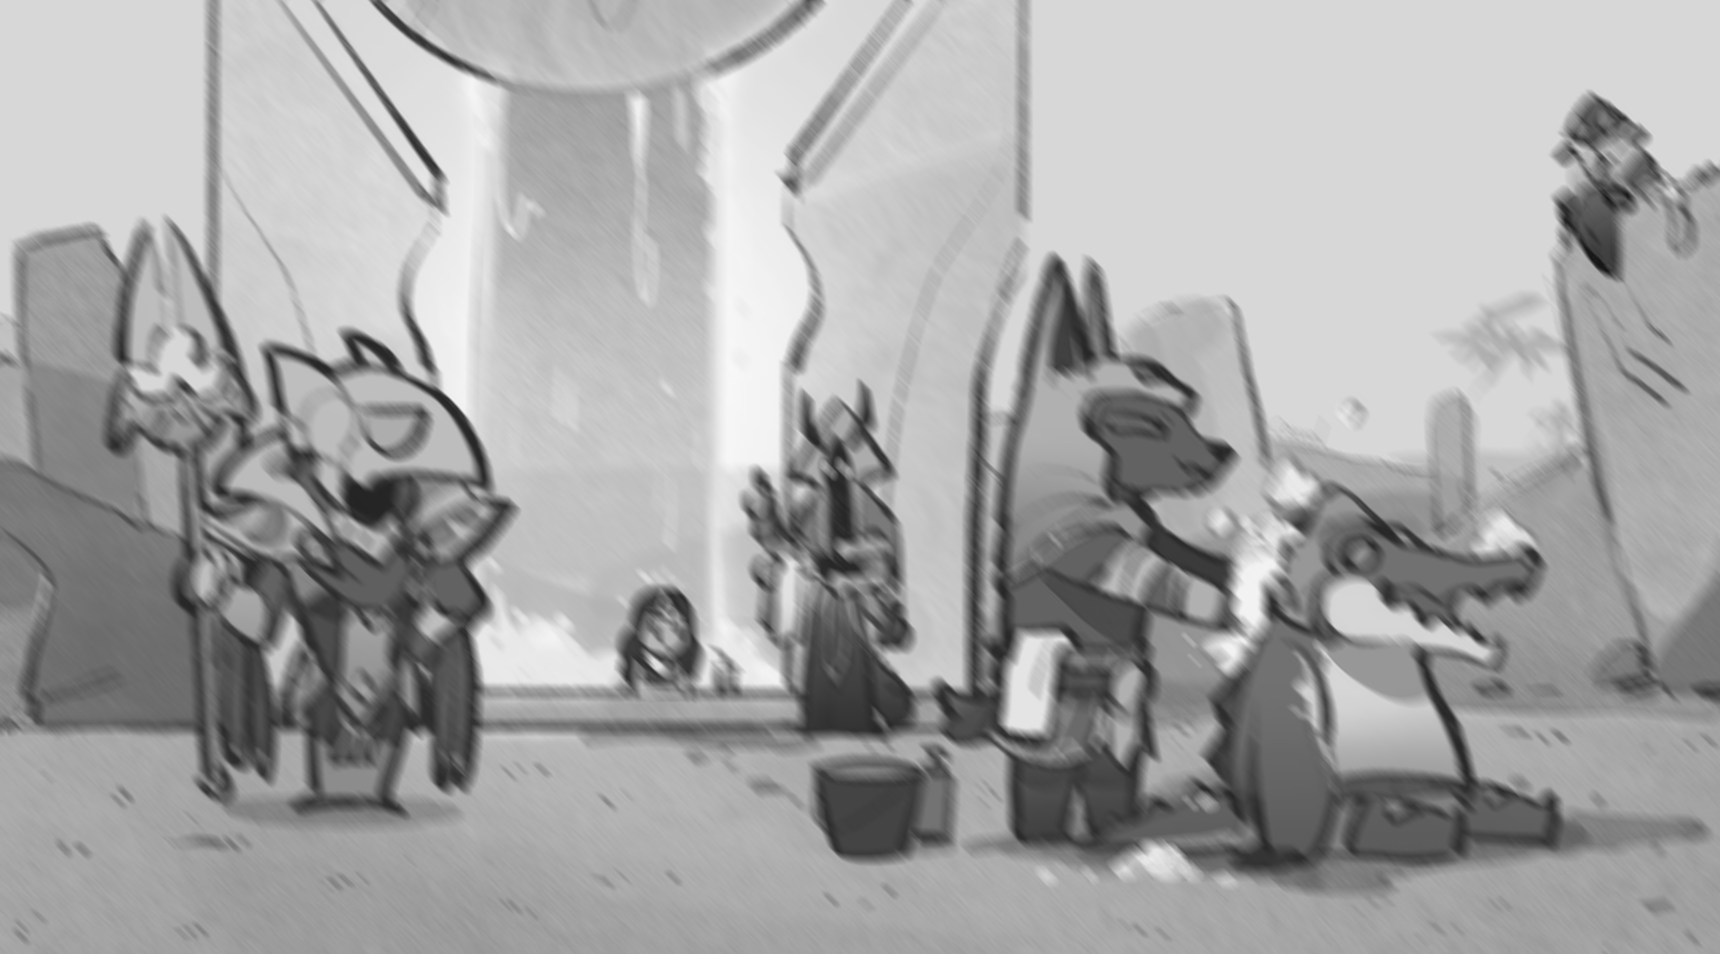
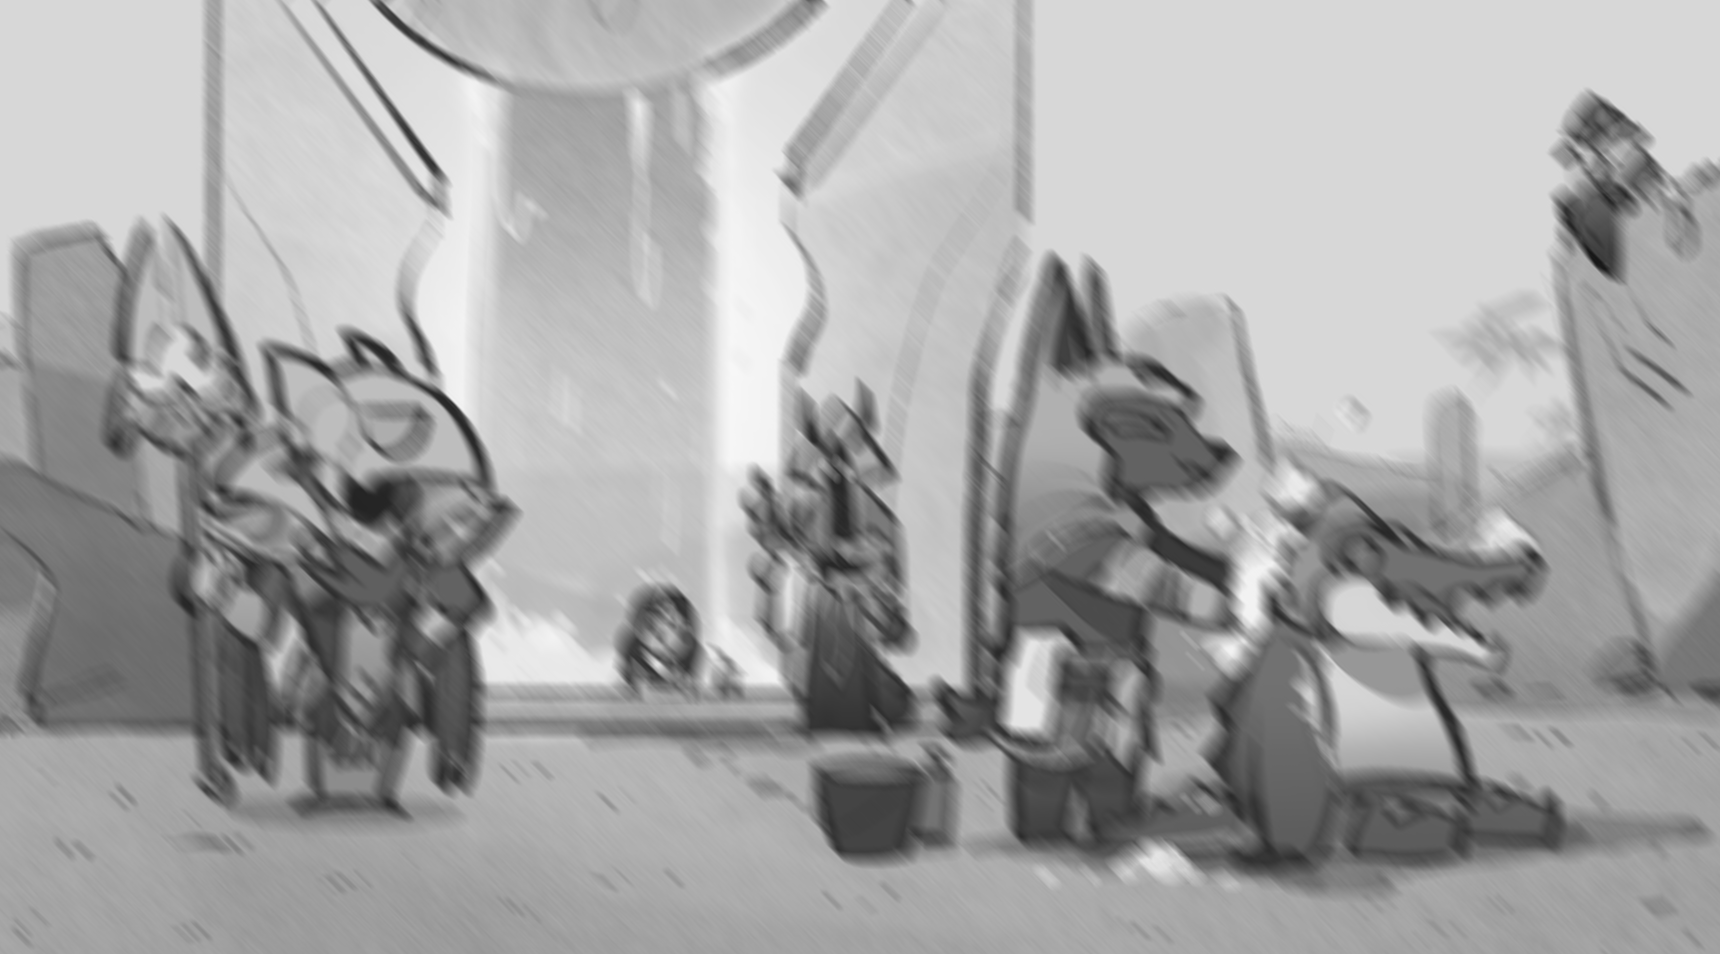
finish classwork1

diff --git a/classwork1/work1.py b/classwork1/work1.py
@@ -2,7 +2,7 @@ import numpy as np
 import cv2 as cv
 
 img = cv.imread('image/shurima.jpg', cv.IMREAD_GRAYSCALE)
-kernel_size = 15
+kernel_size = 20
 
 # สร้างเมทริกซ์เปล่าที่มีค่าเป็น 0
 kernel = np.zeros((kernel_size, kernel_size), np.float32)
